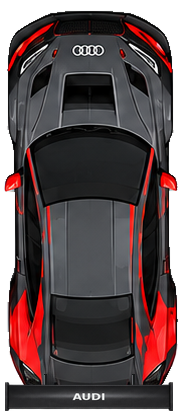
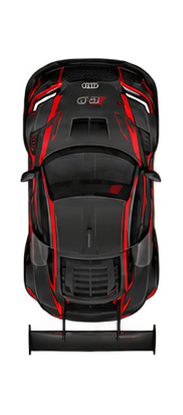
Replace GT3 sprites with new reference models

diff --git a/sprite-overrides.js b/sprite-overrides.js
@@ -1,24 +1,24 @@
 // GT3 models and both supplied paint designs, used in the garage and on track.
 if (typeof SPRITE_DATA !== 'undefined') {
     for (const id of ['aston_gt3','audi_gt3','bmw_gt3','corvette_gt3','ferrari_gt3','mustang_gt3','lambo_gt3','lexus_gt3','mclaren_gt3','mercedes_gt3','porsche_gt3','bentley_gt3']) {
-        SPRITE_DATA[id] = `assets/gt3/models/${id}-1.png?v=20261115-reference-gt3-wings-v11`;
-        SPRITE_DATA[`${id}_livery2`] = `assets/gt3/models/${id}-2.png?v=20261115-reference-gt3-wings-v11`;
+        SPRITE_DATA[id] = `assets/gt3/models/${id}-1.png?v=20261116-user-gt3-model-sheet-v1`;
+        SPRITE_DATA[`${id}_livery2`] = `assets/gt3/models/${id}-2.png?v=20261116-user-gt3-model-sheet-v1`;
     }
 }
 // Each manufacturer gets the two real sprite designs from the supplied sheets.
 const GT3_PAINT_VARIANTS = Object.freeze(Object.fromEntries([
-    ['aston_gt3','Зелёная','#1b7760','Белая','#eeeeea'],
-    ['audi_gt3','Чёрная','#303238','Белая','#e7e7e7'],
-    ['bmw_gt3','Белая','#e9e9e9','Чёрная','#20232b'],
-    ['corvette_gt3','Жёлтая','#f1c400','Графитовая','#333438'],
-    ['ferrari_gt3','Красная','#cf2028','Белая','#ededeb'],
-    ['mustang_gt3','Синяя','#1555a4','Графитовая','#3c4143'],
-    ['lambo_gt3','Зелёная','#77bd10','Чёрная','#292b2c'],
-    ['lexus_gt3','Белая','#e8e8e8','Синяя','#1556a3'],
-    ['mclaren_gt3','Оранжевая','#f47b08','Голубая','#1d9dc8'],
-    ['mercedes_gt3','Серебристая','#8a8d90','Салатовая','#c1d916'],
-    ['porsche_gt3','Белая','#e9e9e7','Чёрная','#22252a'],
-    ['bentley_gt3','Зелёная','#244c42','Белая','#e7e7e2']
+    ['aston_gt3','Тёмно-зелёная','#174d39','Лаймовая','#b7e812'],
+    ['audi_gt3','Чёрная · красная','#242427','Белая · красная','#f0f0ef'],
+    ['bmw_gt3','Белая · M','#f0f2f4','Чёрная · M','#15171b'],
+    ['corvette_gt3','Жёлтая','#f1c400','Графитовая · красная','#303136'],
+    ['ferrari_gt3','Красная','#cf2028','Белая · красная','#f4f2ef'],
+    ['mustang_gt3','Синяя','#1853a2','Графитовая · лаймовая','#343534'],
+    ['lambo_gt3','Чёрная · оранжевая','#343332','Лаймовая','#a4e500'],
+    ['lexus_gt3','Белая · синяя','#f1f2f5','Чёрная · красная','#25272b'],
+    ['mclaren_gt3','Оранжевая','#f18112','Чёрная · голубая','#20252b'],
+    ['mercedes_gt3','Серебристая · синяя','#c4c6c9','Чёрная · красная','#2d3036'],
+    ['porsche_gt3','Белая · красная','#eeeeed','Чёрная · жёлтая','#323437'],
+    ['bentley_gt3','Зелёная','#164a3e','Белая · зелёная','#f2f1ee']
 ].map(([id,name1,color1,name2,color2])=>[id,Object.freeze([
     {spriteId:id,name:name1,color:color1},
     {spriteId:`${id}_livery2`,name:name2,color:color2}
